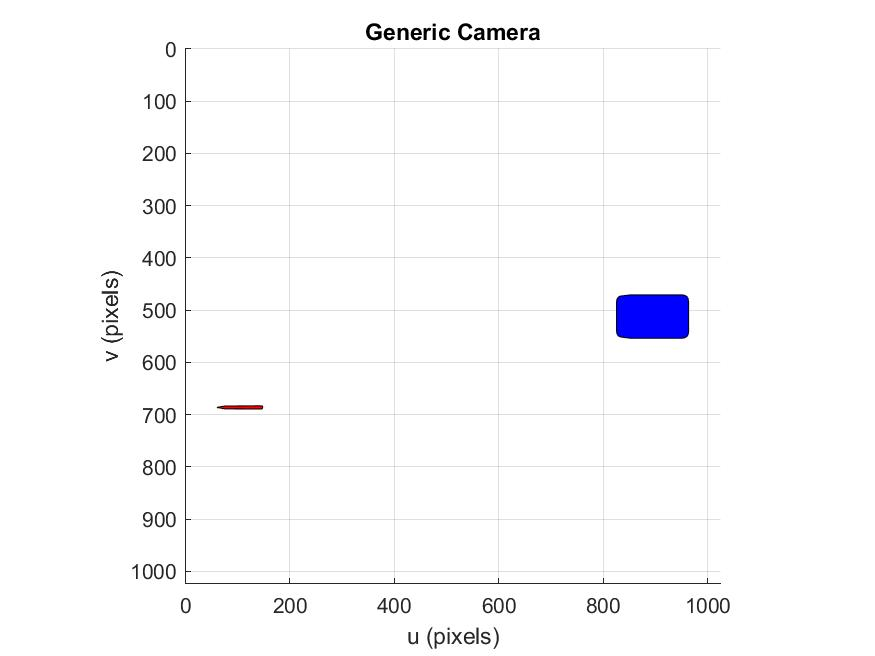
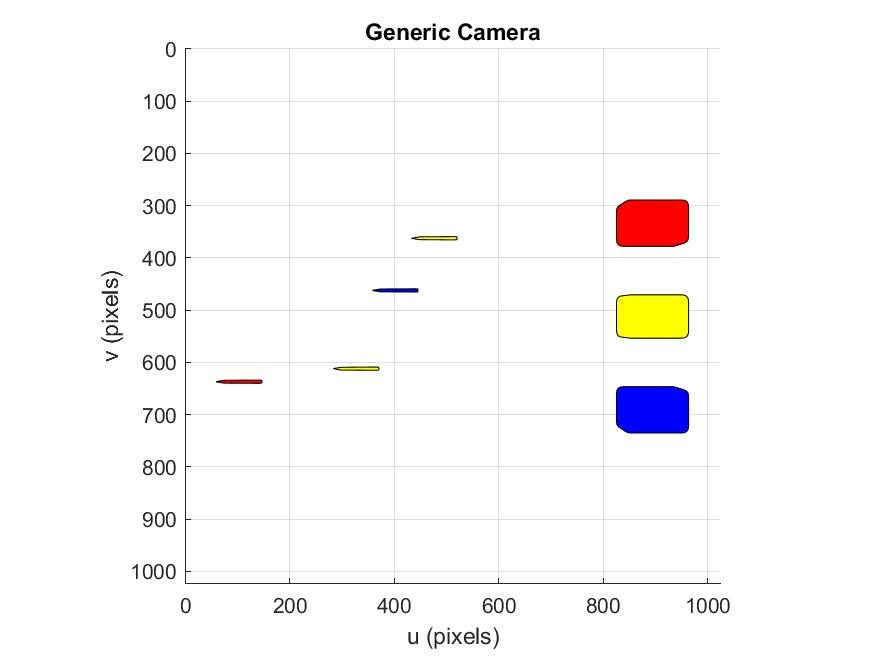
Basic simulation movement incorporated.
Still need to fix the picking up movement to meet the object and then move the object with the end effector. Also need to program the deposit functionality

diff --git a/Master/Classes/Dobot.m b/Master/Classes/Dobot.m
@@ -31,6 +31,10 @@ classdef Dobot < handle
         teachDistance = 0.2;
         
         linkLength = [0.135, 0.139, 0.16, 0.05, 0.0625];
+        
+        stop = false;
+        
+        
     end
     
     methods
@@ -71,7 +75,7 @@ classdef Dobot < handle
             self.model.base = self.basePose;            
         end
 
-        %% GetUR3Robot
+        %% GetDobotRobot
         % Create and return a Dobot robot model
         function GetDobotRobot(self)
             pause(0.001);
@@ -149,12 +153,12 @@ classdef Dobot < handle
         function q = GenerateTargetJointAngles(self, targetPose)
             targetX = targetPose(1, 4) - self.model.base(1, 4);
             targetY = targetPose(2, 4) - self.model.base(2, 4);
-            targetZ = targetPose(3, 4) - self.model.base(3, 4);
+            targetZ = self.model.base(3, 4) - targetPose(3, 4);
             theta = atan2(targetY, targetX) + -asin(self.model.base(1, 2));
             q(1) = theta;
-            joint4X = targetX - self.linkLength(4) * cos(theta); % Get required joint 4 pose
-            joint4Y = targetY - self.linkLength(4) * sin(theta);
-            joint4Z = targetZ + self.linkLength(5);
+            joint4X = targetX - self.linkLength(4) * cos(theta) % Get required joint 4 pose
+            joint4Y = targetY - self.linkLength(4) * sin(theta)
+            joint4Z = targetZ + self.linkLength(5)
             h = joint4Z - self.linkLength(1);
             
             syms x y z q2 q3 a2 a3; % Symbolic algebraic solution to find q2
@@ -168,9 +172,9 @@ classdef Dobot < handle
 
             
             if self.model.qlim(2, 1) <= q21 && q21 <= self.model.qlim(2, 2)
-               q(2) = q21;
+               q(2) = q21
             elseif self.model.qlim(2, 1) <= q22 && q22 <= self.model.qlim(2, 2)
-               q(2) = q22;
+               q(2) = q22
             end
             
             joint1X = self.model.base(1, 4);
@@ -222,30 +226,49 @@ classdef Dobot < handle
         %% Move linear rail to target location
         function MoveToTargetLinearRail(self, x)
             disp("X is : " + x);
+            steps = 50;
+
            if (x - self.baseWidth/2 >= 0 && x + self.baseWidth/2 <= self.linearRailLength)
-              self.model.base(1, 4) = self.linearRailPose(1, 4) + x;
-               self.model.animate(self.model.getpos);
-               disp(1);
+              distance = x - self.model.base(1,4);
+              increment = distance/steps;
+              for i = 1:steps
+                  self.model.base(1, 4) = self.model.base(1,4) + increment;
+                  self.model.animate(self.model.getpos);
+                  drawnow();
+              end
+              disp(1);
            end
            
            if (x - self.baseWidth/2 < 0)
-              self.model.base(1, 4) = self.linearRailPose(1, 4) + self.baseWidth/2;
-              self.model.animate(self.model.getpos);
+              distance = (self.linearRailPose(1, 4) + self.baseWidth/2) - self.model.base(1,4);
+              increment = distance/steps;
+              
+              for i = 1:steps
+                  self.model.base(1, 4) = self.model.base(1,4) + increment;
+                  self.model.animate(self.model.getpos);
+                  drawnow();
+              end
               disp(2);
            end
            
            if (x > self.linearRailLength - self.baseWidth/2)
-               self.model.base(1, 4) = self.linearRailPose(1, 4) + self.linearRailTravelDist + self.baseWidth/2;
-               self.model.animate(self.model.getpos);
-               disp(3);
+              distance = (self.linearRailPose(1, 4) + self.linearRailTravelDist + self.baseWidth/2) - self.model.base(1,4);
+              increment = distance/steps;
+              
+              for i = 1:steps
+                  self.model.base(1, 4) = self.model.base(1,4) + increment;
+                  self.model.animate(self.model.getpos);
+                  drawnow();
+              end
+              disp(3);
            end
         end
         %% Move Arm
         function MoveArm(self, targetPose)
-            q0 = self.model.getpos;
+            q0 = self.model.getpos
 
-            EEPose1 = targetPose;
-            q1 = self.GenerateTargetJointAngles(EEPose1);
+            EEPose1 = targetPose
+            q1 = self.GenerateTargetJointAngles(EEPose1)
             steps = 50;
             s = lspb(0,1,steps);
             qMatrix = nan(steps,5);
@@ -255,7 +278,7 @@ classdef Dobot < handle
             end
 
             for i = 1:steps
-               robot.model.animate(qMatrix(i, :));
+               self.model.animate(qMatrix(i, :));
                drawnow();
             end
         end

diff --git a/Master/Classes/RGBCamera.m b/Master/Classes/RGBCamera.m
@@ -22,6 +22,7 @@ classdef RGBCamera < handle
        blobBB;
        mappedCentroids;
        globalCentroids;
+       globalOrientations;
        
        im;
        BWim;
@@ -79,7 +80,7 @@ classdef RGBCamera < handle
             end 
             
             self.cam = CentralCamera('focal', self.focal, 'pixel', self.pixel, 'resolution', self.resolution, 'centre', self.centre, 'name', self.name);
-            self.cam.T = self.centrePose
+            self.cam.T = self.centrePose;
             self.camHeight = self.centrePose(3, 4) - 0.8911; %z - table height
        end
        %% Display Camera in environment
@@ -181,22 +182,24 @@ classdef RGBCamera < handle
        
            posX = self.cam.T(1, 4) - ((self.mappedCentroids(:, 1) - self.cam.pp(1)) * self.camHeight) / (10000 * self.cam.f);
            posY = self.cam.T(2, 4) - ((self.mappedCentroids(:, 2) - self.cam.pp(2)) * self.camHeight) / (10000 * self.cam.f);
-           pixelColours = impixel(self.im, self.blobCentroids(:, 1), self.blobCentroids(:, 2))
+           pixelColours = impixel(self.im, self.blobCentroids(:, 1), self.blobCentroids(:, 2));
            [numRows numCols] = size(pixelColours);
            
            j = 1;
            for i = 1:numRows
                avg =  (pixelColours(i, 1) + pixelColours(i, 2) + pixelColours(i, 3)) / 3;
                if (avg < 200 && avg > 25 && self.blobPerimeters(i) < 300 && self.mappedCentroids(i, 1) > 0 && self.mappedCentroids(i, 2) > 0)
-                   self.blobBB(i)
+                   self.blobBB(i);
                    self.globalCentroids(j, 1) = posX(i);
-                   self.globalCentroids(j, 2) = posY(i);
+                   self.globalCentroids(j, 2) = -1*posY(i);
+                   self.globalOrientations(j) = self.blobOrientations(i);
                    j = j + 1;
                end
            end
        end
        %% Detect Centroids
        function LocateObjects(self)
+           self.PlotObjects();
            self.ConvertImage();
            self.CalcBlobs();
            self.MapCentroids();

diff --git a/Master/main.m b/Master/main.m
@@ -7,7 +7,7 @@ clear;
 blueCrate = EnvironmentObject('Type', 'deposit', 'ModelPath', 'blueCrate.ply', 'Pose', transl(-0.75, 0.35, 0.8911), 'Dimensions', [0.24 0.16 0.0664], 'GeneralColour', 'b');
 yellowCrate = EnvironmentObject('Type', 'deposit', 'ModelPath', 'yellowCrate.ply', 'Pose', transl(-0.75, 0, 0.8911), 'Dimensions', [0.24 0.16 0.0664], 'GeneralColour', 'y');
 redCrate = EnvironmentObject('Type', 'deposit', 'ModelPath', 'redCrate.ply', 'Pose', transl(-0.75, -0.35, 0.8911), 'Dimensions', [0.24 0.16 0.0664], 'GeneralColour', 'r');
-redPen = EnvironmentObject('Type', 'target', 'ModelPath', 'redPen.ply', 'Pose', transl(0.75, 0.35, 0.8911), 'Dimensions', [0.1734 0.0123 0.0124], 'GeneralColour', 'r');
+redPen = EnvironmentObject('Type', 'target', 'ModelPath', 'redPen.ply', 'Pose', transl(0.75, 0.25, 0.8911), 'Dimensions', [0.1734 0.0123 0.0124], 'GeneralColour', 'r');
 bluePen = EnvironmentObject('Type', 'target', 'ModelPath', 'bluePen.ply', 'Pose', transl(0.15, -0.1, 0.8911), 'Dimensions', [0.1734 0.0123 0.0124], 'GeneralColour', 'b');
 pencil1 = EnvironmentObject('Type', 'target', 'ModelPath', 'pencil.ply', 'Pose', transl(0.3, 0.2, 0.8911), 'Dimensions', [0.1734 0.0123 0.0124], 'GeneralColour', 'y');
 pencil2 = EnvironmentObject('Type', 'target', 'ModelPath', 'pencil.ply', 'Pose', transl(0, -0.3, 0.8911), 'Dimensions', [0.1734 0.0123 0.0124], 'GeneralColour', 'y');
@@ -32,6 +32,9 @@ plc = GlobalController(environment, camera);
 % Initialise the simulation
 plc.Init();
 
+disp('Initialisation Complete');
+
+plc.Run();
 
 %% Advanced Teach Demo
 close all;
@@ -86,12 +89,12 @@ PLC.Run();
 % camlight;
 % axis equal;
 
-robot = PLC.environment.robot;
+robot = plc.environment.robot;
 
 q0 = robot.model.getpos
 EEPose0 = robot.model.fkine(q0)
 
-EEPose1 = EEPose0 * transl(-0.2, 0, 0)
+EEPose1 = EEPose0 * transl(0, 0.05, 0.3)
 q1 = robot.GenerateTargetJointAngles(EEPose1)
 steps = 50;
 s = lspb(0,1,steps);
